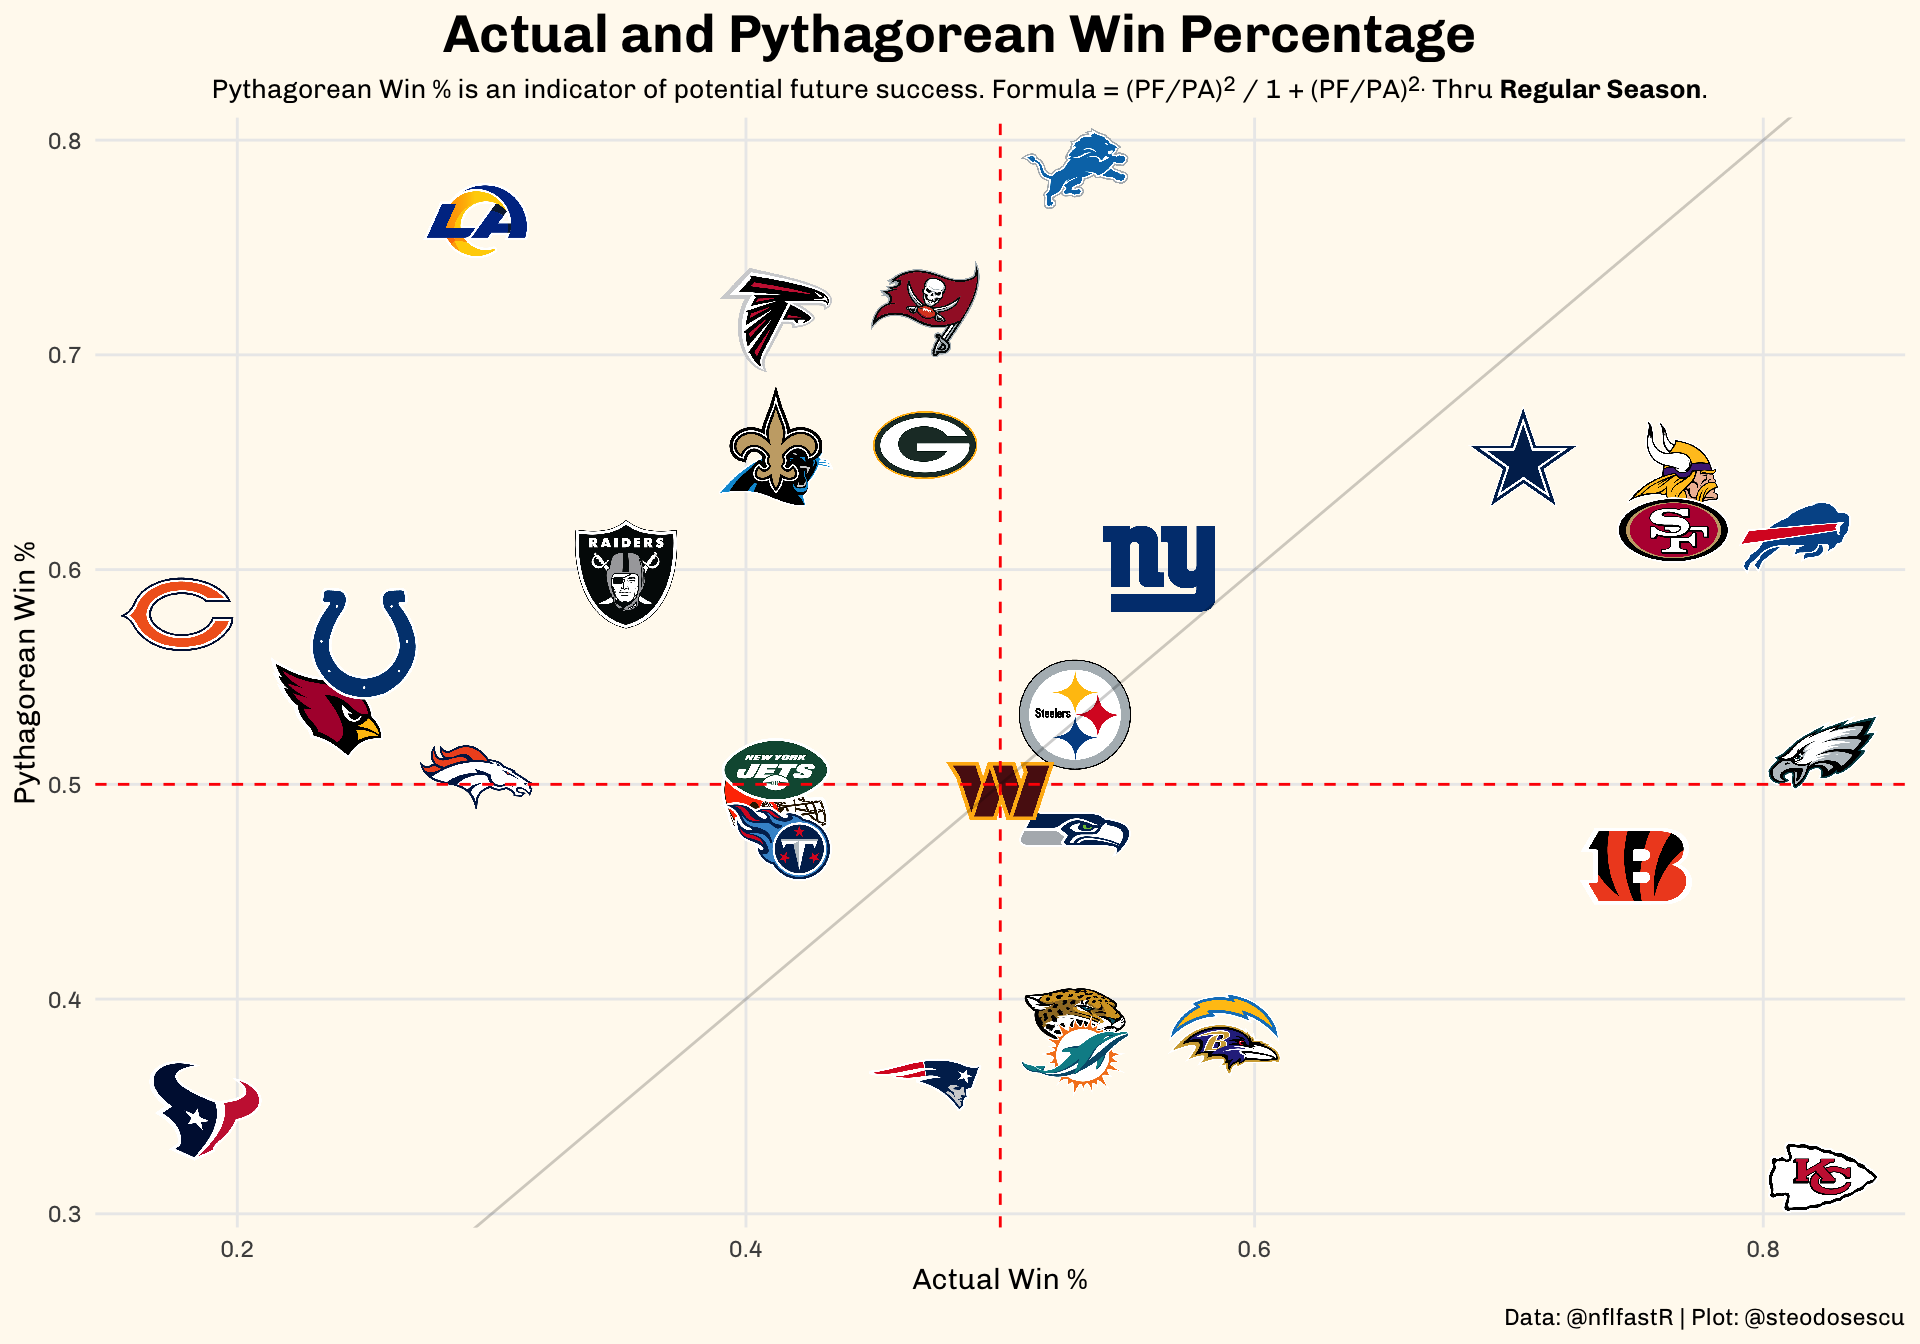
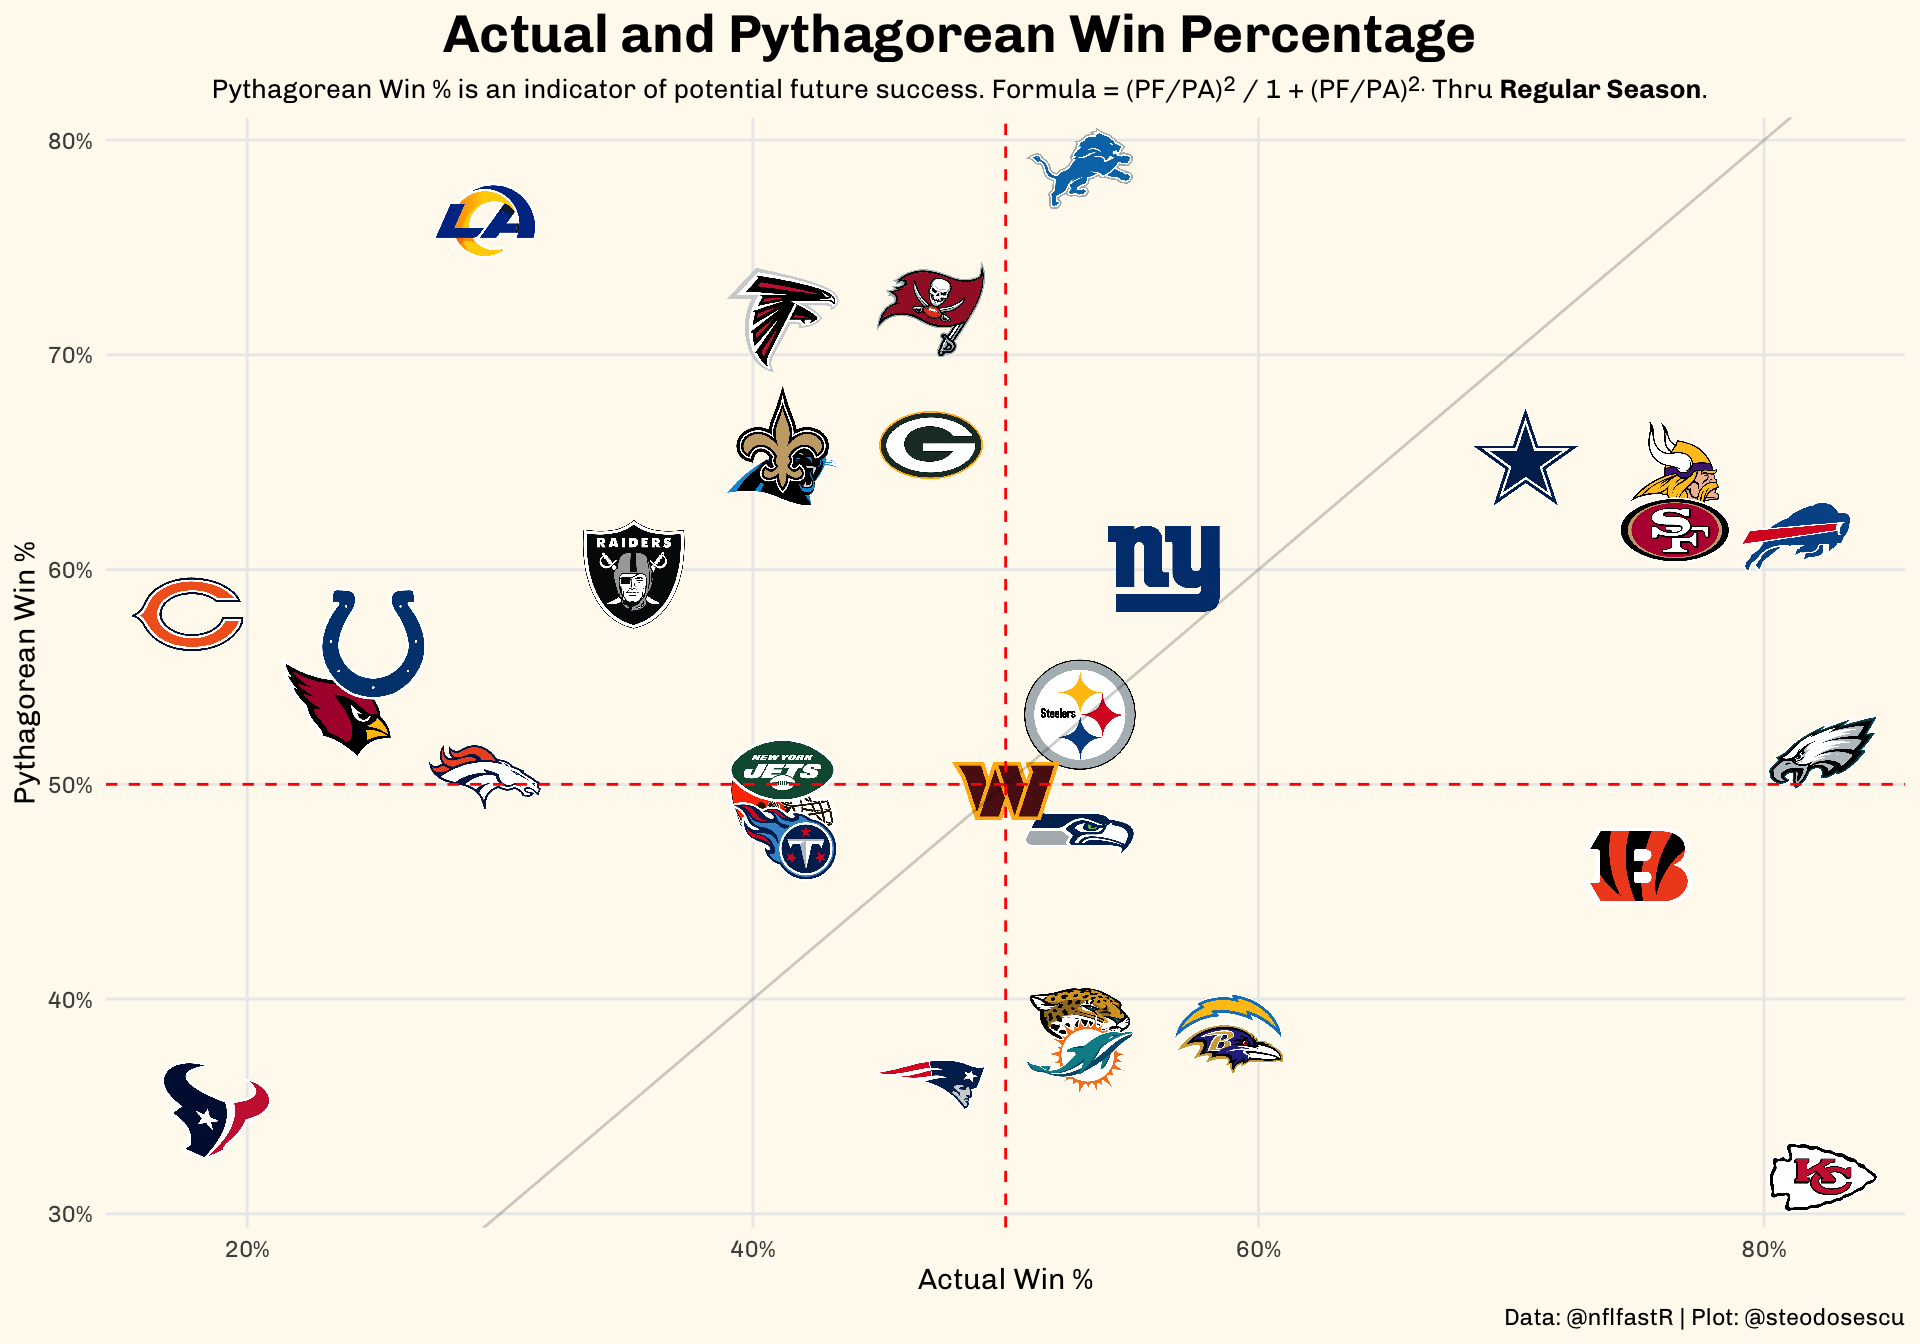
Updated axes on pythagorean plot

diff --git a/Teams-Weekly-Report.html b/Teams-Weekly-Report.html
@@ -298,7 +298,7 @@ $(document).ready(function () {
   </a>
 </li>
 <li>
-  <a href="https://betweenpipes.wordpress.com/">
+  <a href="https://betweenthepipes.substack.com/">
     <span class="fa fa-wordpress fa-lg"></span>
      
   </a>
@@ -359,13 +359,13 @@ $(document).ready(function () {
 <div id="fourth-downs" class="section level2">
 <h2>Fourth Downs</h2>
 <p>Teams are going for it on 4th Down more often nowadays. The below table shows each team’s go-for-it rates on fourth-and-short over the last decade-plus. Year-to-date teams have gone for it in fourth-and-short situations <strong>37.8 percent</strong> of the time in 2022. We will track how each team fares on its fourth-down decision making throughout the season.</p>
-<div id="xrpxrnmeze" style="overflow-x:auto;overflow-y:auto;width:auto;height:auto;">
+<div id="msxrbtdnyt" style="overflow-x:auto;overflow-y:auto;width:auto;height:auto;">
 <style>@import url("https://fonts.googleapis.com/css2?family=Chivo:ital,wght@0,100;0,200;0,300;0,400;0,500;0,600;0,700;0,800;0,900;1,100;1,200;1,300;1,400;1,500;1,600;1,700;1,800;1,900&display=swap");
 html {
   font-family: Chivo, -apple-system, BlinkMacSystemFont, 'Segoe UI', Roboto, Oxygen, Ubuntu, Cantarell, 'Helvetica Neue', 'Fira Sans', 'Droid Sans', Arial, sans-serif;
 }
 
-#xrpxrnmeze .gt_table {
+#msxrbtdnyt .gt_table {
   display: table;
   border-collapse: collapse;
   margin-left: auto;
@@ -390,7 +390,7 @@ html {
   border-left-color: #D3D3D3;
 }
 
-#xrpxrnmeze .gt_heading {
+#msxrbtdnyt .gt_heading {
   background-color: #FFFFFF;
   text-align: left;
   border-bottom-color: #FFFFFF;
@@ -402,7 +402,7 @@ html {
   border-right-color: #D3D3D3;
 }
 
-#xrpxrnmeze .gt_title {
+#msxrbtdnyt .gt_title {
   color: #333333;
   font-size: 125%;
   font-weight: initial;
@@ -414,7 +414,7 @@ html {
   border-bottom-width: 0;
 }
 
-#xrpxrnmeze .gt_subtitle {
+#msxrbtdnyt .gt_subtitle {
   color: #333333;
   font-size: 85%;
   font-weight: initial;
@@ -426,13 +426,13 @@ html {
   border-top-width: 0;
 }
 
-#xrpxrnmeze .gt_bottom_border {
+#msxrbtdnyt .gt_bottom_border {
   border-bottom-style: solid;
   border-bottom-width: 2px;
   border-bottom-color: #D3D3D3;
 }
 
-#xrpxrnmeze .gt_col_headings {
+#msxrbtdnyt .gt_col_headings {
   border-top-style: solid;
   border-top-width: 3px;
   border-top-color: rgba(255, 255, 255, 0);
@@ -447,7 +447,7 @@ html {
   border-right-color: #D3D3D3;
 }
 
-#xrpxrnmeze .gt_col_heading {
+#msxrbtdnyt .gt_col_heading {
   color: #333333;
   background-color: #FFFFFF;
   font-size: 80%;
@@ -467,7 +467,7 @@ html {
   overflow-x: hidden;
 }
 
-#xrpxrnmeze .gt_column_spanner_outer {
+#msxrbtdnyt .gt_column_spanner_outer {
   color: #333333;
   background-color: #FFFFFF;
   font-size: 80%;
@@ -479,15 +479,15 @@ html {
   padding-right: 4px;
 }
 
-#xrpxrnmeze .gt_column_spanner_outer:first-child {
+#msxrbtdnyt .gt_column_spanner_outer:first-child {
   padding-left: 0;
 }
 
-#xrpxrnmeze .gt_column_spanner_outer:last-child {
+#msxrbtdnyt .gt_column_spanner_outer:last-child {
   padding-right: 0;
 }
 
-#xrpxrnmeze .gt_column_spanner {
+#msxrbtdnyt .gt_column_spanner {
   border-bottom-style: solid;
   border-bottom-width: 3px;
   border-bottom-color: #000000;
@@ -499,7 +499,7 @@ html {
   width: 100%;
 }
 
-#xrpxrnmeze .gt_group_heading {
+#msxrbtdnyt .gt_group_heading {
   padding-top: 8px;
   padding-bottom: 8px;
   padding-left: 5px;
@@ -524,7 +524,7 @@ html {
   vertical-align: middle;
 }
 
-#xrpxrnmeze .gt_empty_group_heading {
+#msxrbtdnyt .gt_empty_group_heading {
   padding: 0.5px;
   color: #333333;
   background-color: #FFFFFF;
@@ -539,15 +539,15 @@ html {
   vertical-align: middle;
 }
 
-#xrpxrnmeze .gt_from_md > :first-child {
+#msxrbtdnyt .gt_from_md > :first-child {
   margin-top: 0;
 }
 
-#xrpxrnmeze .gt_from_md > :last-child {
+#msxrbtdnyt .gt_from_md > :last-child {
   margin-bottom: 0;
 }
 
-#xrpxrnmeze .gt_row {
+#msxrbtdnyt .gt_row {
   padding-top: 3px;
   padding-bottom: 3px;
   padding-left: 5px;
@@ -566,7 +566,7 @@ html {
   overflow-x: hidden;
 }
 
-#xrpxrnmeze .gt_stub {
+#msxrbtdnyt .gt_stub {
   color: #333333;
   background-color: #FFFFFF;
   font-size: 80%;
@@ -579,7 +579,7 @@ html {
   padding-right: 5px;
 }
 
-#xrpxrnmeze .gt_stub_row_group {
+#msxrbtdnyt .gt_stub_row_group {
   color: #333333;
   background-color: #FFFFFF;
   font-size: 100%;
@@ -593,11 +593,11 @@ html {
   vertical-align: top;
 }
 
-#xrpxrnmeze .gt_row_group_first td {
+#msxrbtdnyt .gt_row_group_first td {
   border-top-width: 2px;
 }
 
-#xrpxrnmeze .gt_summary_row {
+#msxrbtdnyt .gt_summary_row {
   color: #333333;
   background-color: #FFFFFF;
   text-transform: inherit;
@@ -607,16 +607,16 @@ html {
   padding-right: 5px;
 }
 
-#xrpxrnmeze .gt_first_summary_row {
+#msxrbtdnyt .gt_first_summary_row {
   border-top-style: solid;
   border-top-color: #D3D3D3;
 }
 
-#xrpxrnmeze .gt_first_summary_row.thick {
+#msxrbtdnyt .gt_first_summary_row.thick {
   border-top-width: 2px;
 }
 
-#xrpxrnmeze .gt_last_summary_row {
+#msxrbtdnyt .gt_last_summary_row {
   padding-top: 8px;
   padding-bottom: 8px;
   padding-left: 5px;
@@ -626,7 +626,7 @@ html {
   border-bottom-color: #D3D3D3;
 }
 
-#xrpxrnmeze .gt_grand_summary_row {
+#msxrbtdnyt .gt_grand_summary_row {
   color: #333333;
   background-color: #FFFFFF;
   text-transform: inherit;
@@ -636,7 +636,7 @@ html {
   padding-right: 5px;
 }
 
-#xrpxrnmeze .gt_first_grand_summary_row {
+#msxrbtdnyt .gt_first_grand_summary_row {
   padding-top: 8px;
   padding-bottom: 8px;
   padding-left: 5px;
@@ -646,11 +646,11 @@ html {
   border-top-color: #D3D3D3;
 }
 
-#xrpxrnmeze .gt_striped {
+#msxrbtdnyt .gt_striped {
   background-color: rgba(128, 128, 128, 0.05);
 }
 
-#xrpxrnmeze .gt_table_body {
+#msxrbtdnyt .gt_table_body {
   border-top-style: solid;
   border-top-width: 2px;
   border-top-color: #D3D3D3;
@@ -659,7 +659,7 @@ html {
   border-bottom-color: #D3D3D3;
 }
 
-#xrpxrnmeze .gt_footnotes {
+#msxrbtdnyt .gt_footnotes {
   color: #333333;
   background-color: #FFFFFF;
   border-bottom-style: none;
@@ -673,7 +673,7 @@ html {
   border-right-color: #D3D3D3;
 }
 
-#xrpxrnmeze .gt_footnote {
+#msxrbtdnyt .gt_footnote {
   margin: 0px;
   font-size: 90%;
   padding-left: 4px;
@@ -682,7 +682,7 @@ html {
   padding-right: 5px;
 }
 
-#xrpxrnmeze .gt_sourcenotes {
+#msxrbtdnyt .gt_sourcenotes {
   color: #333333;
   background-color: #FFFFFF;
   border-bottom-style: none;
@@ -696,7 +696,7 @@ html {
   border-right-color: #D3D3D3;
 }
 
-#xrpxrnmeze .gt_sourcenote {
+#msxrbtdnyt .gt_sourcenote {
   font-size: 12px;
   padding-top: 4px;
   padding-bottom: 4px;
@@ -704,64 +704,64 @@ html {
   padding-right: 5px;
 }
 
-#xrpxrnmeze .gt_left {
+#msxrbtdnyt .gt_left {
   text-align: left;
 }
 
-#xrpxrnmeze .gt_center {
+#msxrbtdnyt .gt_center {
   text-align: center;
 }
 
-#xrpxrnmeze .gt_right {
+#msxrbtdnyt .gt_right {
   text-align: right;
   font-variant-numeric: tabular-nums;
 }
 
-#xrpxrnmeze .gt_font_normal {
+#msxrbtdnyt .gt_font_normal {
   font-weight: normal;
 }
 
-#xrpxrnmeze .gt_font_bold {
+#msxrbtdnyt .gt_font_bold {
   font-weight: bold;
 }
 
-#xrpxrnmeze .gt_font_italic {
+#msxrbtdnyt .gt_font_italic {
   font-style: italic;
 }
 
-#xrpxrnmeze .gt_super {
+#msxrbtdnyt .gt_super {
   font-size: 65%;
 }
 
-#xrpxrnmeze .gt_footnote_marks {
+#msxrbtdnyt .gt_footnote_marks {
   font-style: italic;
   font-weight: normal;
   font-size: 75%;
   vertical-align: 0.4em;
 }
 
-#xrpxrnmeze .gt_asterisk {
+#msxrbtdnyt .gt_asterisk {
   font-size: 100%;
   vertical-align: 0;
 }
 
-#xrpxrnmeze .gt_indent_1 {
+#msxrbtdnyt .gt_indent_1 {
   text-indent: 5px;
 }
 
-#xrpxrnmeze .gt_indent_2 {
+#msxrbtdnyt .gt_indent_2 {
   text-indent: 10px;
 }
 
-#xrpxrnmeze .gt_indent_3 {
+#msxrbtdnyt .gt_indent_3 {
   text-indent: 15px;
 }
 
-#xrpxrnmeze .gt_indent_4 {
+#msxrbtdnyt .gt_indent_4 {
   text-indent: 20px;
 }
 
-#xrpxrnmeze .gt_indent_5 {
+#msxrbtdnyt .gt_indent_5 {
   text-indent: 25px;
 }
 </style>
